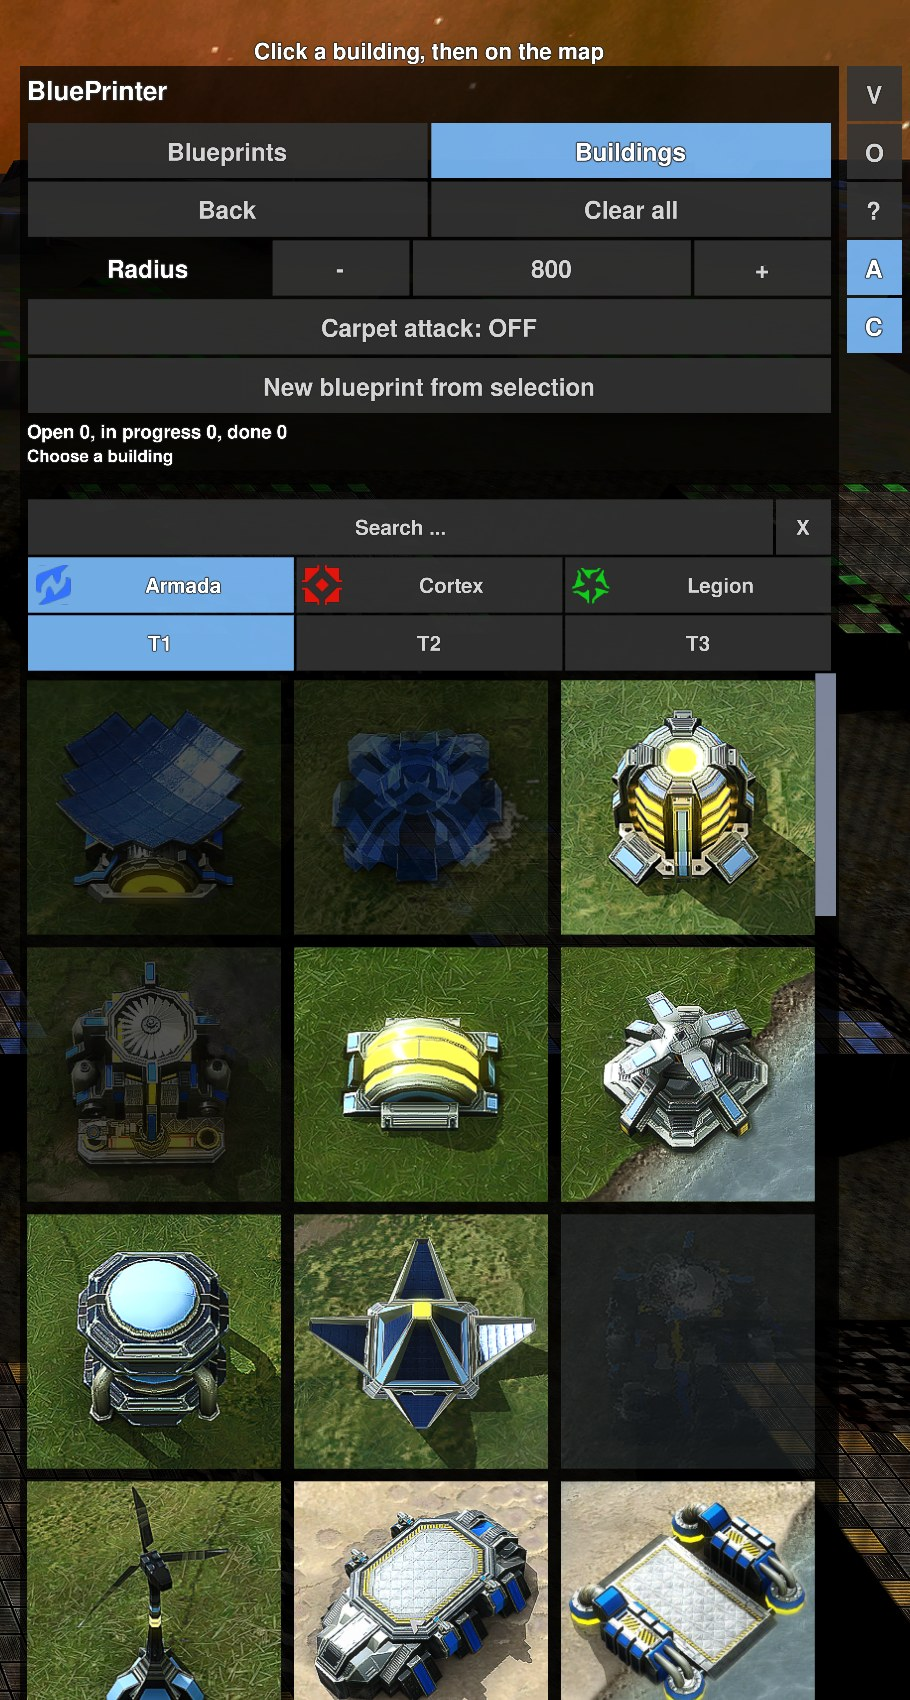
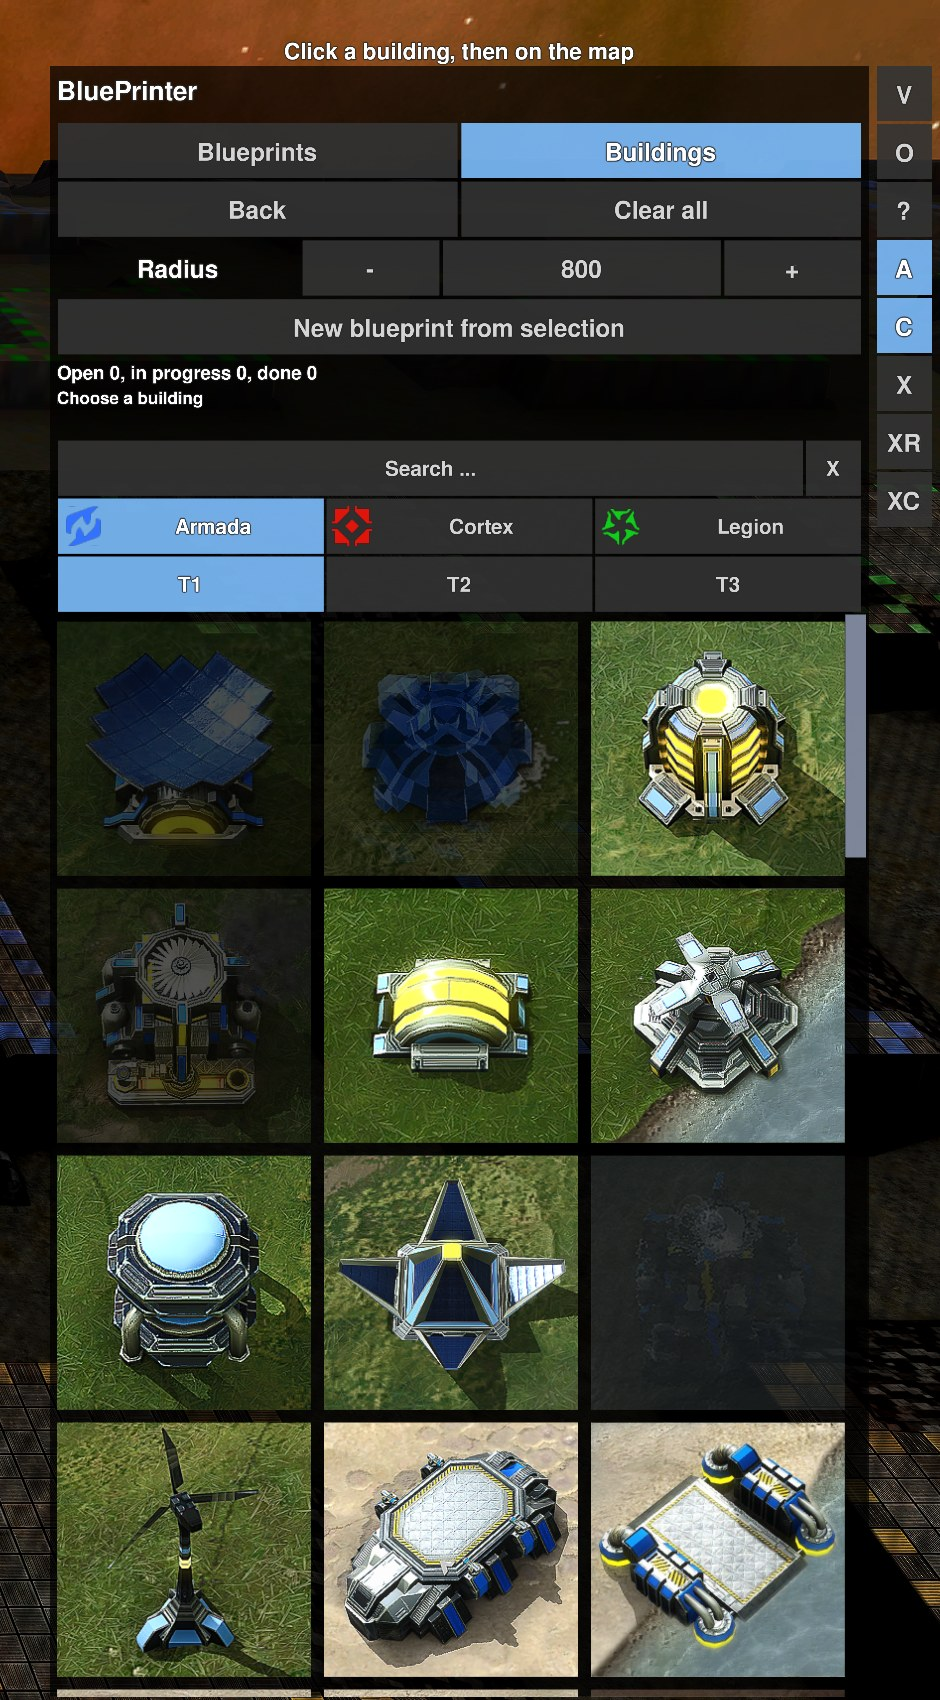
BluePrinter docs: area attacks and new screenshots

diff --git a/BluePrinter/SPECIFICATION.md b/BluePrinter/SPECIFICATION.md
@@ -36,11 +36,10 @@ Shared code: `..\shared\editor_common.lua` (see `..\shared\SPECIFICATION.md`). S
 ### 4.1 Panel
 - Position: right (default) or left (chat command `/bp_side left|right`; there is no button for it), top edge at 90 % of the screen height. Width at least 270·S, at most 60 % of the screen. Bottom edge at most at 5 % of the screen height, in the buildings view at least 190·S (the info lines are below).
 - The menu is visible at the start and scales with the screen height and the UI size slider (`ui_scale`), see shared/SPECIFICATION.md.
-- Structure from the top: title "BluePrinter"; the buttons **V** (collapse/expand the menu: one click hides everything except the V, a second brings it back), **O** (settings), **?** (help), **A** (Auto-build on/off, default on) and **C** (commanders help build yes/no, default yes) stand in a **column at the screen edge next to the menu**, one below the other, as in the Level Editor (all buttons use `Shared.drawButtons` with the height `HB` and font 26·S of the editor). Mode row **Blueprints | Buildings**, then the button rows:
+- Structure from the top: title "BluePrinter"; the buttons **V** (collapse/expand the menu: one click hides everything except the V, a second brings it back), **O** (settings), **?** (help), **A** (Auto-build on/off, default on) and **C** (commanders help build yes/no, default yes) and the experimental area attacks **X** (line), **XR** (rectangle) and **XC** (circle) stand in a **column at the screen edge next to the menu**, one below the other, as in the Level Editor (all buttons use `Shared.drawButtons` with the height `HB` and font 26·S of the editor). Mode row **Blueprints | Buildings**, then the button rows:
   1. **Back** | **Clear all**
   2. **Radius** | **-** | input field | **+**: the field shows the current radius; click it, type a number (digits only, up to 5), Enter accepts, Esc cancels, a click elsewhere accepts; the value is limited to 200–6000. **-** and **+** change it in steps of 200 and the number follows at once.
-  3. **Carpet attack: ON/OFF**
-  4. **New blueprint from selection**
+  3. **New blueprint from selection**
   Every button of the column has a tooltip (A and C also show the current state). There are no buttons for rotating and for the side of the menu (keys `[` `]`, Alt + mouse wheel and the chat commands `/bp_rotate`, `/bp_side` remain). After that the status lines ("Open N, in progress N, done N", "<hint>" (the rotation is visible in the 3D preview at the mouse pointer) and the "Remaining: …" line) and the content (grid or catalog). Active switches are light blue.
 
 ### 4.2 Mode "Blueprints"
@@ -63,7 +62,8 @@ Shared code: `..\shared\editor_common.lua` (see `..\shared\SPECIFICATION.md`). S
 - **Ghosts and manual assignment:** every open plan is also drawn as a 3D ghost (`drawPlanGhosts`, at most `ghost.max` = 150, the ones closest to the mouse pointer). **Right click on a plan** (no stamp or carpet armed) with own builders selected (`assignToPlan`): the plan under the pointer (footprint plus 8 Elmo) is given to all selected builders that can build it as a build order (`giveBuild`, with Shift behind their queue), regardless of radius, auto-build and the commander switch; `claim` is set to the first of them so auto-build does not hand it out again. Selected builders that cannot build it: message, click used; no builder selected: the click is not used. Checked in the real game: right click on a queued solar collector with the commander selected (auto-build off): claimed and built.
 - **Visible queue:** a status line "Remaining: metal M, energy E, build time about T" (sum of all open plans; build time = build effort divided by the build power of the own builders, without economy; computed every 30 frames) and in the world a **number on every open plan** (order of the queue, up to 250; blue = open, yellow = in progress, red = blocked). When hovering over a blueprint tile, name, count and cost are shown below the panel.
 - **Still open (suggestions):** priorities and builder assignment for plans, automatic rebuilding and repair.
-- **Carpet attack** (button "Carpet attack", `/bp_carpet`, Ctrl+Alt+K; earlier "bomber carpet"): select units, switch the mode on and drag a line A→B on the map. Two groups are distinguished, each spreads evenly over the line on its own (sorted by their position along the line, every unit gets an equally long piece): (1) **bombers** (aircraft with a weapon of type `AircraftBomb`): `MOVE` to a point 900 Elmo in front of the center of the piece (against the line direction, inside the map), then `ATTACK` (appended) on the center; this way everyone approaches along the line and the bombs fall spread over the length. (2) **Artillery, rocket launchers, nukes and everything else with blast damage at long range** (`isAreaShooter`: no aircraft, weapon with `canAttackGround ~= false`, blast radius `damageAreaOfEffect` ≥ 16 Elmo and range ≥ 450 Elmo; hits e.g. mortars, Shellshocker, rocket launchers, Merl, Vulcan, Buzzsaw, all nuke silos; not: anti-air, short-range cannons, lasers): only `ATTACK` on the center of the piece (ground target), mobile units walk into range for it. A click without dragging = normal attack on a point. Preview: line, a frame per unit of both groups and the approach paths of the bombers. After the order the mode switches off; right click cancels. Checked: mock test (bomber MOVE+ATTACK, artillery/rockets/nuke only ATTACK, fighters, short-range tanks and anti-air without an order, three shooters split the line into three pieces) and the classification of all unit types in the real game (144 types, e.g. cormart, armmerl, armsilo, corint, armvulc, corbuzz yes; armpw, armflash, armsam, armham no).
+- **Area attacks, experimental** (buttons **X**, **XR**, **XC** in the column next to the menu, `/bp_carpet [line|rect|circle]`, Ctrl+Alt+K = X; earlier the menu button "Carpet attack"; no connection to the build plans, only the shared menu and the rule that armed stamps and the area attack exclude each other): **X** is the carpet attack along a line as described next. **XR** and **XC** use the same two groups (bombers; artillery, rockets, nukes) but the drag is a rectangle (two opposite corners) or a circle (press = center, distance to the pointer = radius). `areaPlan` gives every unit its own target point inside the shape (rectangle: grid of about square cells; circle: sunflower spiral), pairs units and points by their position across the direction from the group to the area (the paths cross less); bombers get `MOVE` to a point 900 Elmo before their target on that side, then `ATTACK`, the others only `ATTACK`. The preview draws the shape, a frame per target and the approach lines. Checked in the real game with 5 bombers and 5 artillery units (cheat `give`): all three modes make a plan per unit, the circle orders are given.
+  The line variant: select units, switch the mode on and drag a line A→B on the map. Two groups are distinguished, each spreads evenly over the line on its own (sorted by their position along the line, every unit gets an equally long piece): (1) **bombers** (aircraft with a weapon of type `AircraftBomb`): `MOVE` to a point 900 Elmo in front of the center of the piece (against the line direction, inside the map), then `ATTACK` (appended) on the center; this way everyone approaches along the line and the bombs fall spread over the length. (2) **Artillery, rocket launchers, nukes and everything else with blast damage at long range** (`isAreaShooter`: no aircraft, weapon with `canAttackGround ~= false`, blast radius `damageAreaOfEffect` ≥ 16 Elmo and range ≥ 450 Elmo; hits e.g. mortars, Shellshocker, rocket launchers, Merl, Vulcan, Buzzsaw, all nuke silos; not: anti-air, short-range cannons, lasers): only `ATTACK` on the center of the piece (ground target), mobile units walk into range for it. A click without dragging = normal attack on a point. Preview: line, a frame per unit of both groups and the approach paths of the bombers. After the order the mode switches off; right click cancels. Checked: mock test (bomber MOVE+ATTACK, artillery/rockets/nuke only ATTACK, fighters, short-range tanks and anti-air without an order, three shooters split the line into three pieces) and the classification of all unit types in the real game (144 types, e.g. cormart, armmerl, armsilo, corint, armvulc, corbuzz yes; armpw, armflash, armsam, armham no).
 - Also applies to **blueprints**: with an armed blueprint Shift + drag = copies in a row, with Shift+Alt in a rectangle (at most 2000 units as a row/rectangle of single buildings; blueprint copies at most 100, spacing as for buildings, all copies as **one** step for "Back"). The preview shows all copies (up to 500 frames).
 - The hint text is **above the menu** (24·S): "Click a building, then on the map" or "Left click queues, right click ends, [ and ] rotate", above it "Shift = row, Shift+Alt = rectangle, Shift+Mouse wheel = spacing (N)".
 - The faction buttons carry the faction symbol on the left; for buildings the info also contains the explosion (damage, radius).

diff --git a/BluePrinter/README.md b/BluePrinter/README.md
@@ -46,8 +46,8 @@ units in a blueprint are skipped. The team in the blueprint does not matter, it 
   it helps with one in progress.
 - Queued plans are kept when you quit the game, on the same map.
 
-## Carpet attack
-Select bombers, artillery, rocket launchers or nukes, switch the mode on (button "Carpet attack", Ctrl+Alt+K or `/bp_carpet`) and drag a line on the map. Each unit gets a piece of the line: bombers approach it from behind, artillery and rockets fire at it. Right click cancels.
+## Area attack (experimental)
+Has nothing to do with the build plans; it only sits in the same menu. Select bombers, artillery, rocket launchers or nukes and press one of the buttons next to the menu: **X** (a line), **XR** (a rectangle) or **XC** (a circle; drag from the center outwards). Then drag the shape on the map. Each unit gets its own target inside the shape: bombers approach it from the side where they stand, artillery and rockets fire at their target. Right click cancels. Also Ctrl+Alt+K (= X) or `/bp_carpet [line|rect|circle]`.
 
 ## Chat commands
 `/bp_menu` menu on/off (auto-build and radius are buttons in the menu), `/bp_rotate`, `/bp_undo`, `/bp_clear`, `/bp_com`, `/bp_side left|right`, `/bp_scan` (re-read the list), `/bp_create` (blueprint from the selection), `/bp_mode bp|units` (switch the view), `/bp_carpet`, `/bp_spacing <n|+|->`, `/bp_ghost [gl|wg|auto]` (state of the 3D preview).
